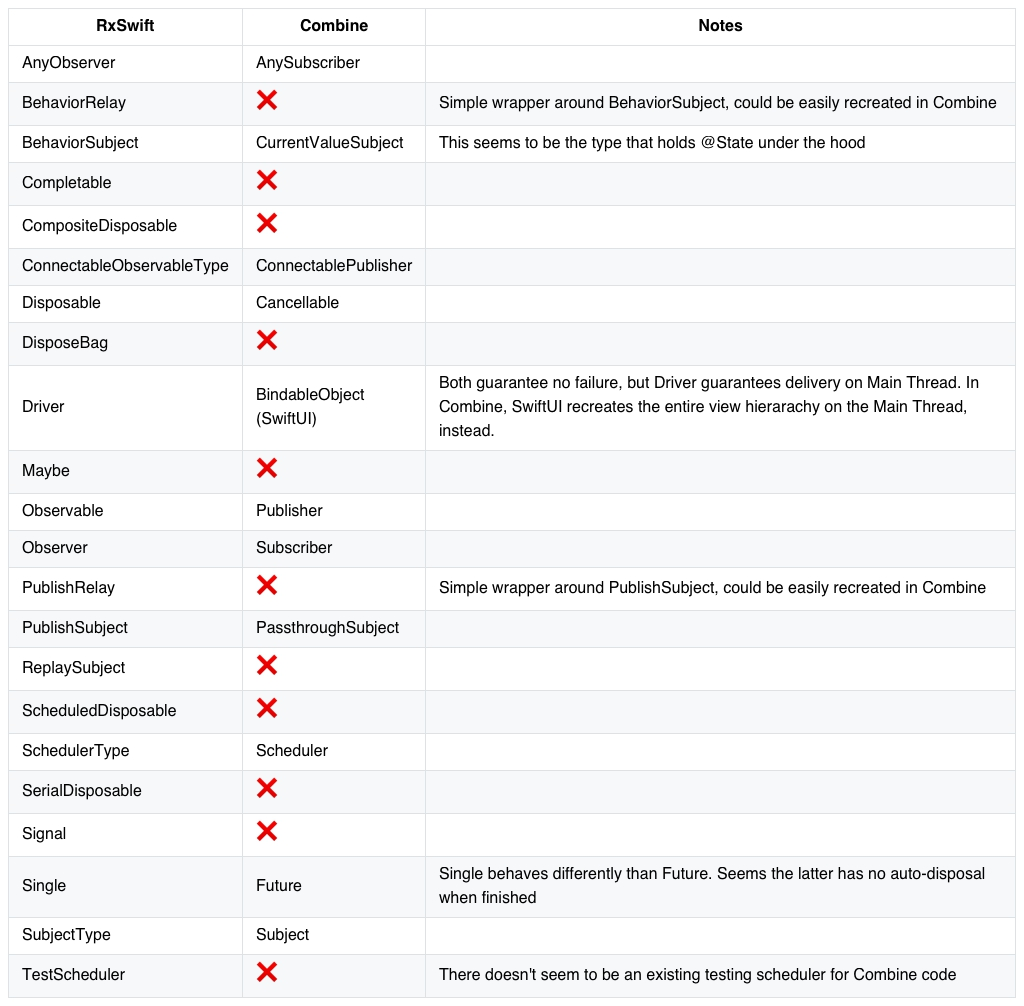
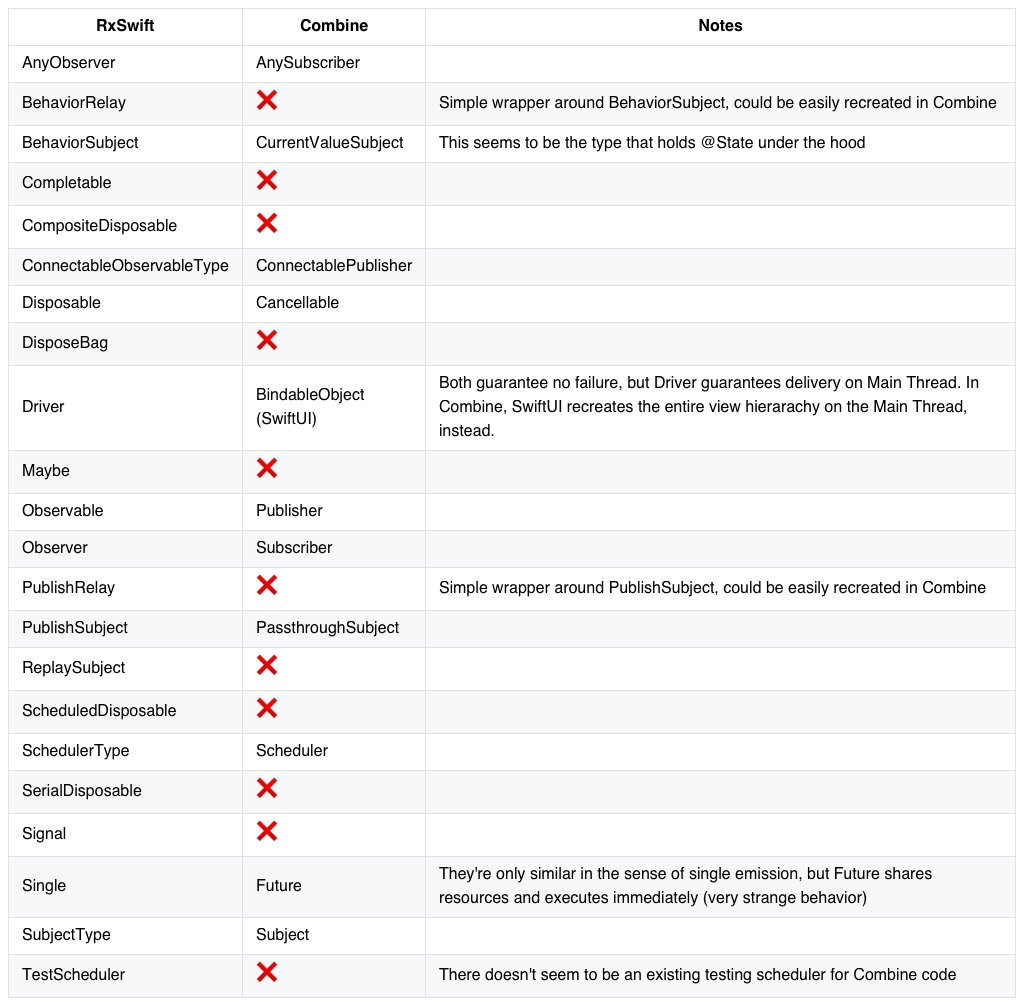
Add clarification on RxSwift.Single vs. Combine.Future

Changed region(s): [[0.4062, 0.8628, 0.9688, 0.9245]]

diff --git a/README.md b/README.md
@@ -38,7 +38,7 @@ It's based on the following blog post: [https://medium.com/gett-engineering/rxsw
 | SchedulerType             | Scheduler                |                                                                                                                                                                 |
 | SerialDisposable          | ❌                        |                                                                                                                                                                 |
 | Signal                    | ❌                        |                                                                                                                                                                 |
-| Single                    | Future                   | Single behaves differently than Future. Seems the latter has no auto-disposal when finished                                                                     |
+| Single                    | Future                   | They're only similar in the sense of single emission, but Future shares resources and executes immediately (very strange behavior)                              |
 | SubjectType               | Subject                  |                                                                                                                                                                 |
 | TestScheduler             | ❌                        | There doesn't seem to be an existing testing scheduler for Combine code                                                                                         |
 
